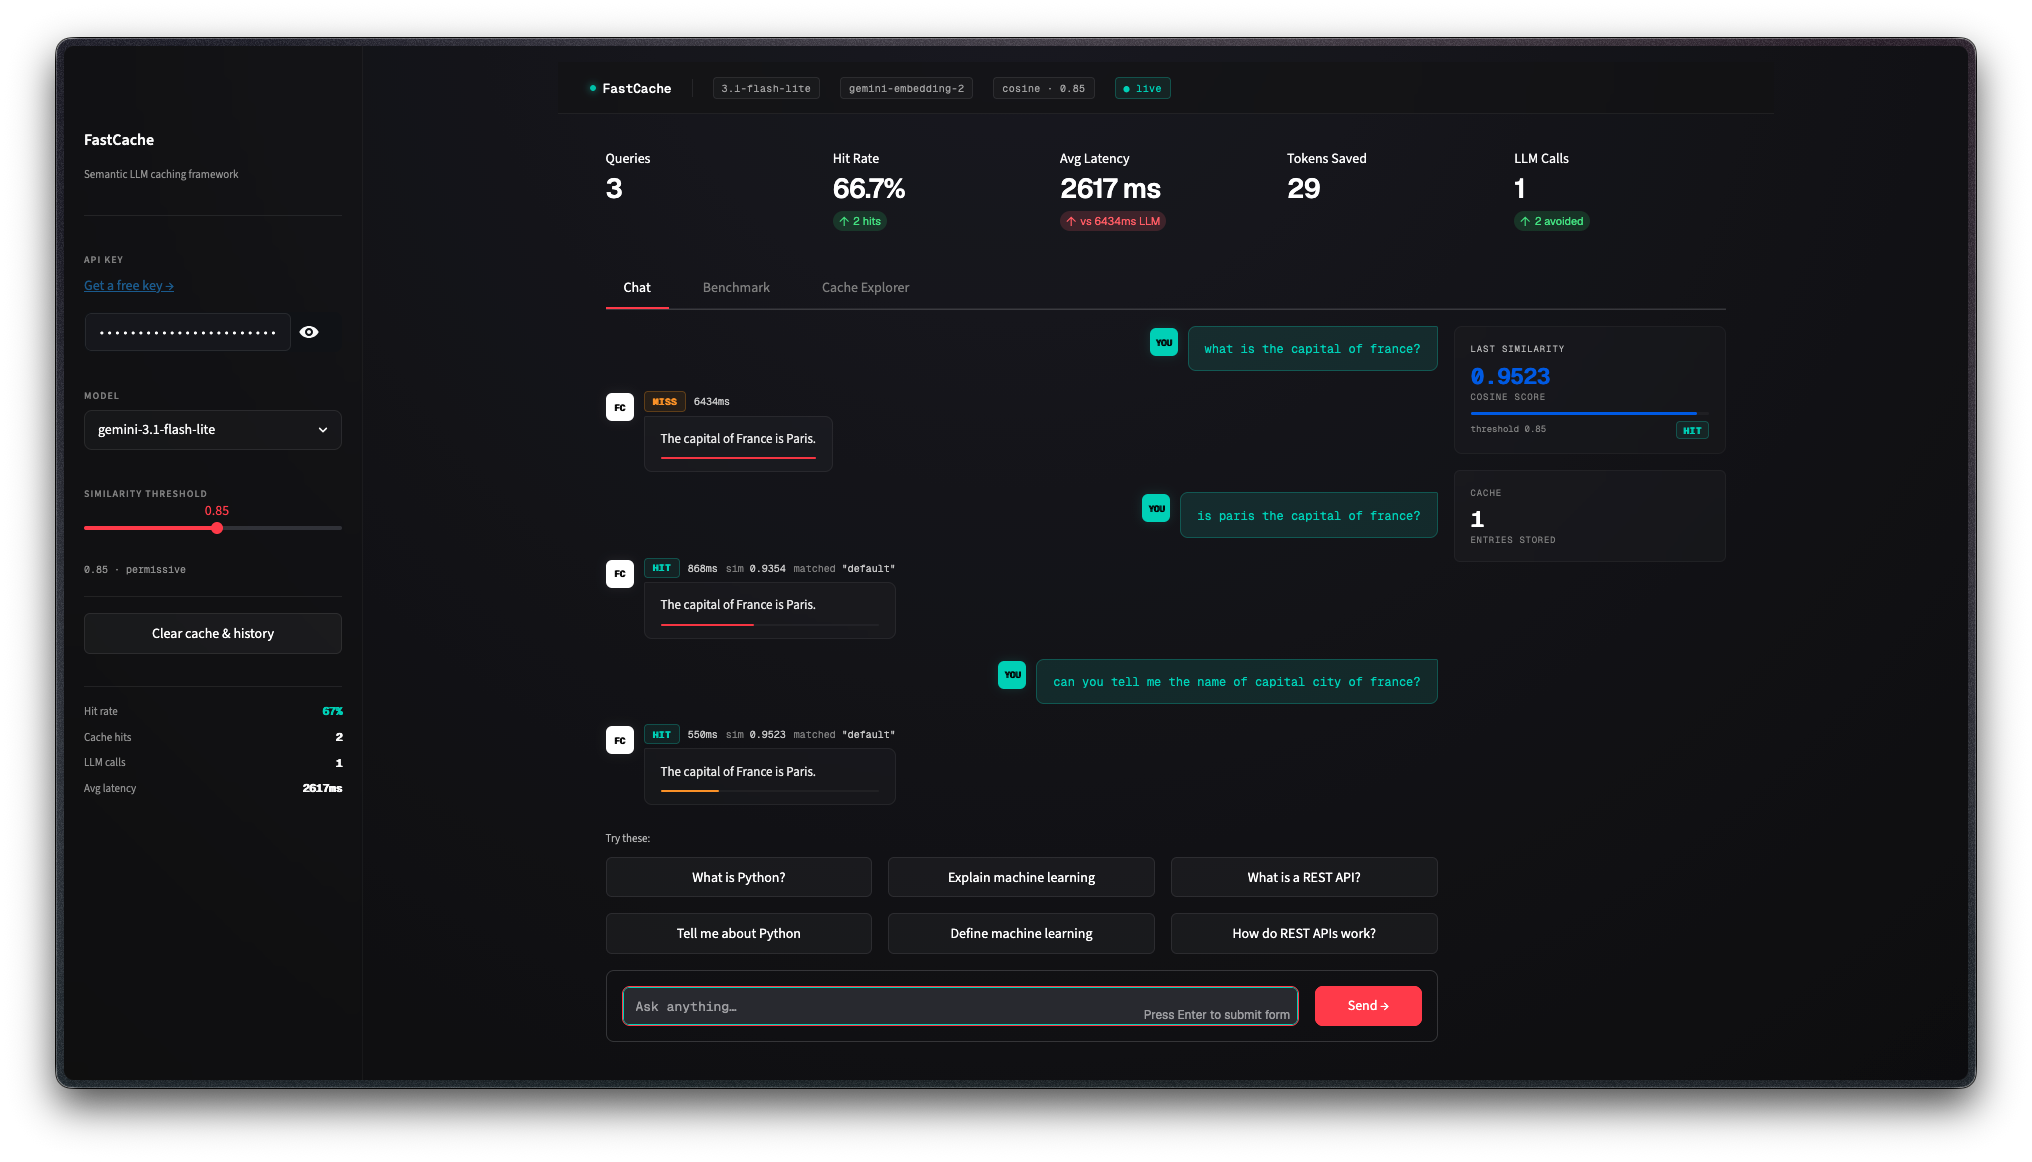
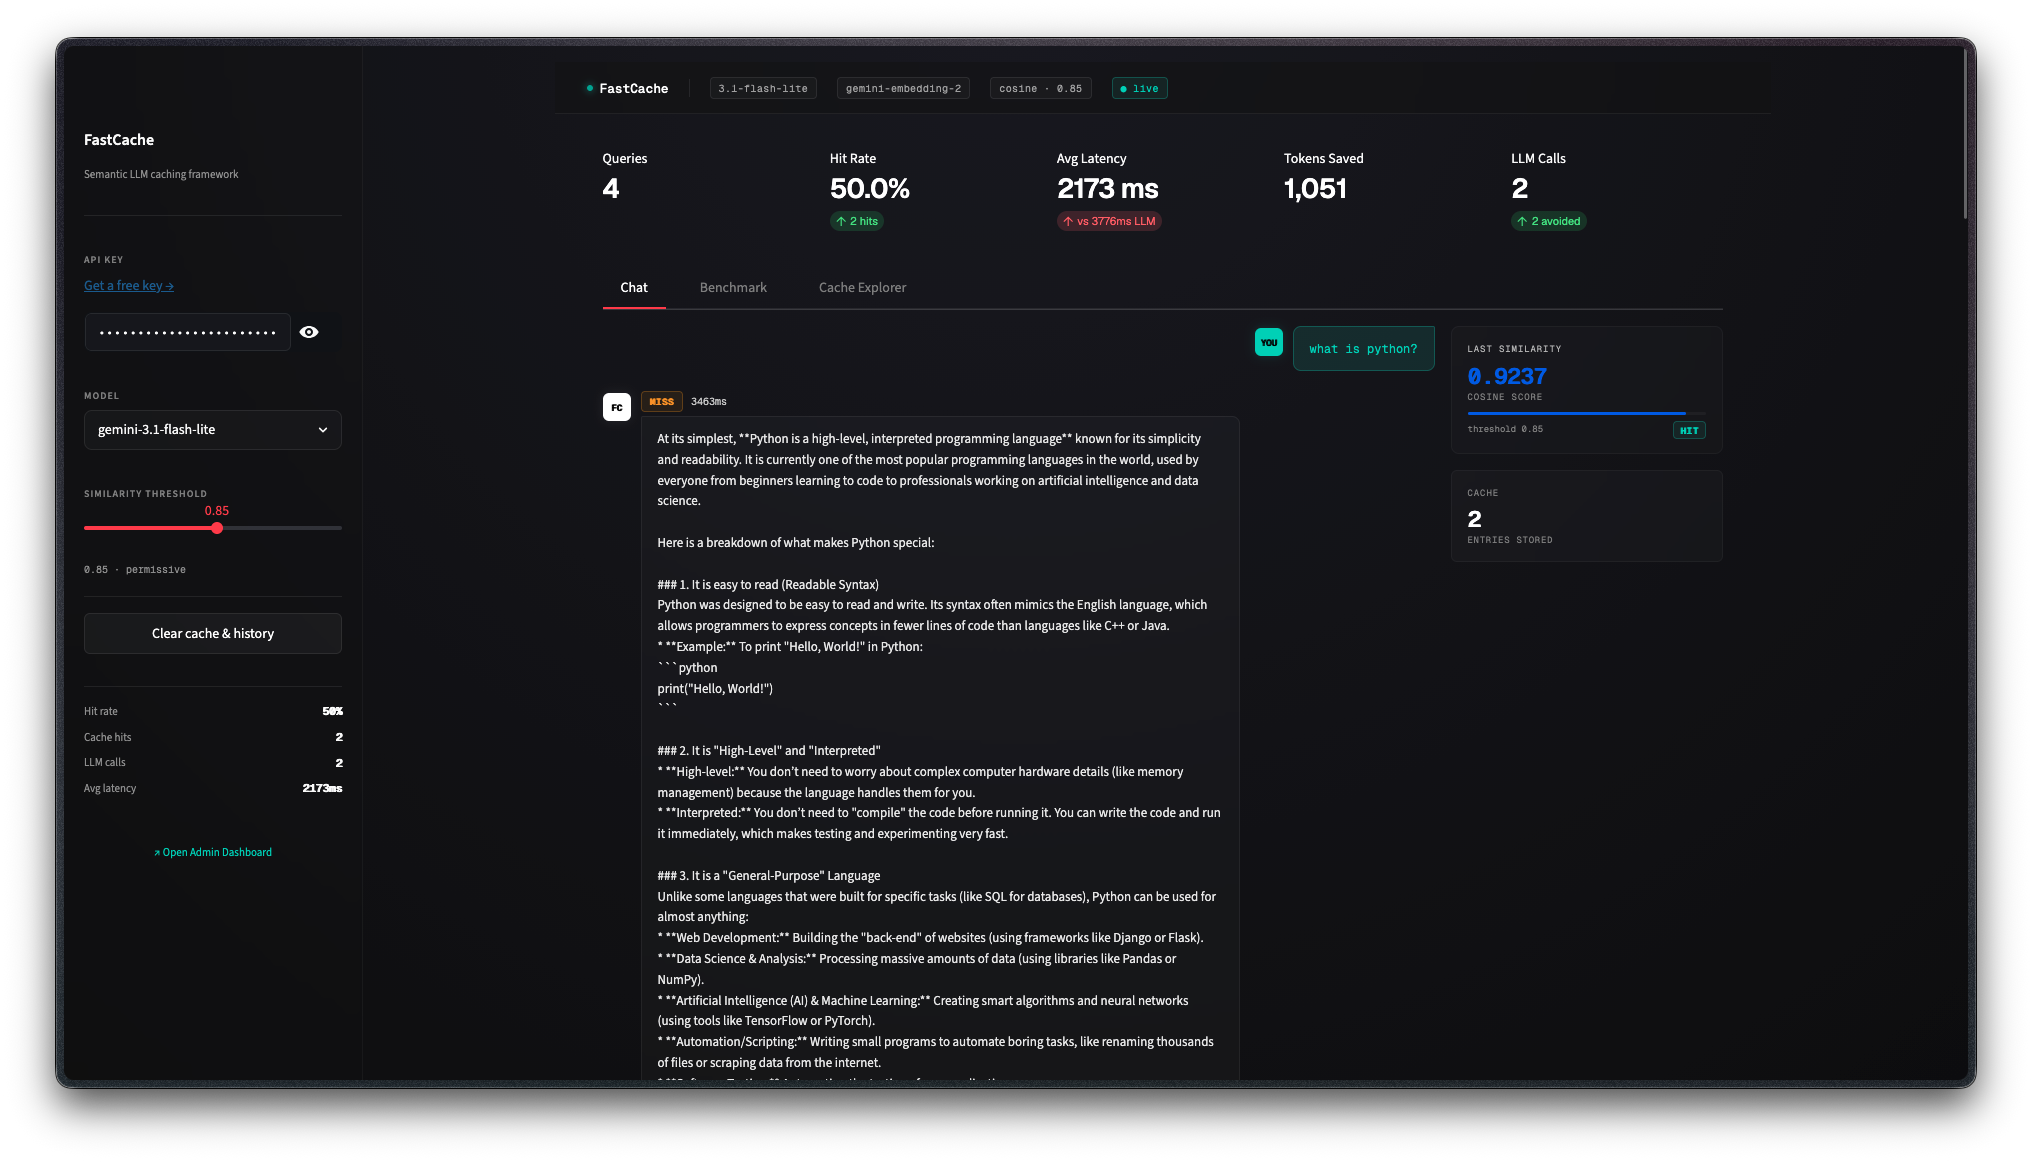
Updated ReadMe with newer screenshots of dashboard

diff --git a/README.md b/README.md
@@ -20,7 +20,7 @@ One integration gives you:
 - Built-in guardrails for prompt length and injection blocking
 - Exact-match fast path bypassing embedding generation
 - Native asynchronous (`async`/`await`) support
-- A real-time Streamlit monitoring dashboard
+- A real-time lightweight monitoring dashboard
 
 ---
 
@@ -94,7 +94,7 @@ The system operates across three distinct layers:
 | `fastcache.stores.InMemoryStore`| High-performance, thread-safe memory store with Numpy matrix operations     |
 | `fastcache.stores.RedisStore`   | Persistent, scalable storage using Redis hashes and exact TTL limits        |
 | `fastcache.guardrails.Builtin`  | Defense layer against prompt injection and arbitrary token limits           |
-| `fastcache.dashboard`           | Streamlit interface for live monitoring and cache invalidation              |
+| `fastcache.dashboard`           | Lightweight HTTP interface for live monitoring and cache invalidation       |
 
 ---
 
@@ -160,7 +160,7 @@ response = await cache.aquery("What is FastAPI?", my_async_llm)
 
 ## Interactive Demonstration
 
-FastCache comes with a premium, chat-based demonstration app to help you visualize semantic caching in action.
+FastCache comes with a premium, chat-based demonstration app to help you visualize semantic caching in action. This interactive demo automatically spins up the built-in administrative dashboard in the background!
 
 ```bash
 # Enter the library directory
@@ -168,6 +168,9 @@ cd fastcache
 
 # Run the frontend demonstration application
 uv run streamlit run examples/app.py
+
+# The Streamlit chat app will open on http://localhost:8501
+# The built-in administrative dashboard will automatically launch on http://localhost:5555
 ```
 
 The interactive demo visibly differentiates between **Cache Misses** (full API latency), **Semantic Hits** (fuzzy matches), and **Exact Matches** (SHA-256 bypass).
@@ -182,22 +185,15 @@ The interactive demo visibly differentiates between **Cache Misses** (full API l
 FastCache includes a built-in administrative dashboard (`fastcache.dashboard`) for real-time visibility into cache performance. 
 
 > [!IMPORTANT]
-> The dashboard **cannot run standalone**. It requires a host Python application that has already created a `SemanticCache` instance and passed it to the dashboard. Running `streamlit run fastcache/dashboard/app.py` directly will show an error because there is no cache to connect to.
+> The dashboard **cannot run standalone**. It requires a host Python application that has already created a `SemanticCache` instance. The dashboard is extremely lightweight, relying on Python's built-in `http.server` (zero extra dependencies).
 
-The recommended way to use the dashboard is via the `dashboard_demo.py` script, which seeds a cache with synthetic data and launches the UI in a single step:
-
-```bash
-cd fastcache
-uv run python examples/dashboard_demo.py
-```
-
-Or, from your own application, call `serve_dashboard()` on your cache instance:
+From your own application, simply call `serve_dashboard()` on your cache instance:
 
 ```python
 cache = SemanticCache(dashboard=True)
 
-# After your app has run some queries...
-cache.serve_dashboard(port=8501, background=True)
+# The dashboard will run in a background thread
+cache.serve_dashboard(port=5555, background=True)
 ```
 
 **Administrative Dashboard:**
@@ -215,7 +211,7 @@ The dashboard provides:
 
 - **Core Library:** Python 3.10+ · Numpy · `urllib` (no bloated dependencies)
 - **Vector Storage:** Numpy array dot-products · Redis
-- **Frontend Dashboard:** Streamlit · Pandas
+- **Frontend Dashboard:** Built-in `http.server` · React · Tailwind CSS
 - **Package Management:** `uv` · `hatchling`
 
 ---